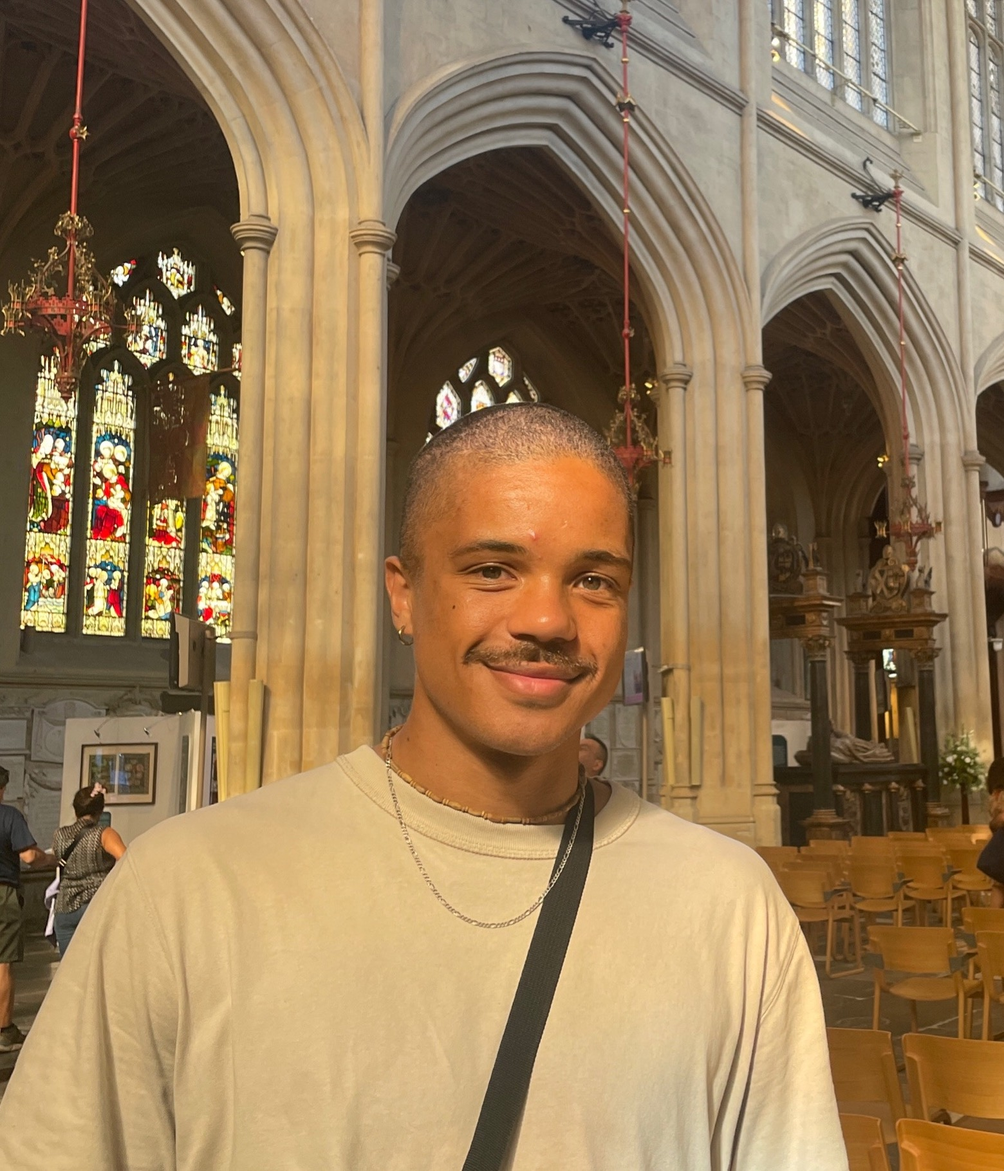
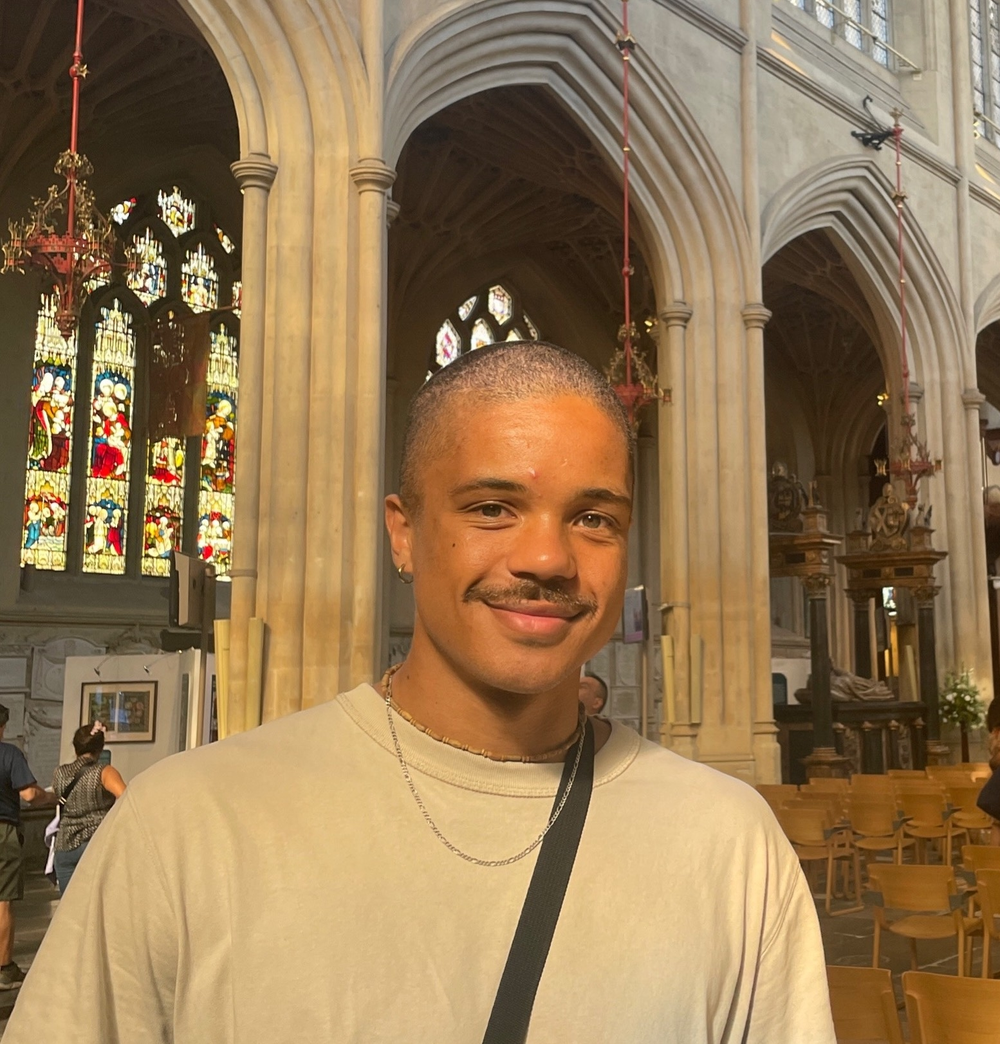
ltota changes

diff --git a/css/style.css b/css/style.css
@@ -369,23 +369,36 @@ transition: all  .3s ease-in-out;
 
 
 .about_section .row {
-  align-items: center;
+  display: flex;
+  align-items: stretch;  /* Make columns equal height */
+}
+
+/* Make columns flex items */
+.about_section .col-md-8,
+.about_section .col-md-4 {
+    display: flex;
+    flex-direction: column;
+}
+
+/* Make content boxes fill height */
+.about_detail-box,
+.about_img-box {
+    height: 100%;
 }
 
 .about_img-box {
-  display: flex;
-  justify-content: center;
-  align-items: center;
-  height: 100%;
-  overflow: hidden;  /* Hide overflow */
-  position: relative;  /* Keep container relative */
+    display: flex;
+    justify-content: center;
+    align-items: center;
+    overflow: hidden;
+    position: relative;
 }
 
 .about_img-box img {
-  width: 100%;  /* Make image fill width */
-  height: 100%;  /* Make image fill height */
-  object-fit: cover;  /* Maintain aspect ratio while filling */
-  object-position: center;  /* Center the image */
+    width: 100%;
+    height: 100%;
+    object-fit: cover;
+    object-position: center;
 }
 
 .about_detail-box em {
